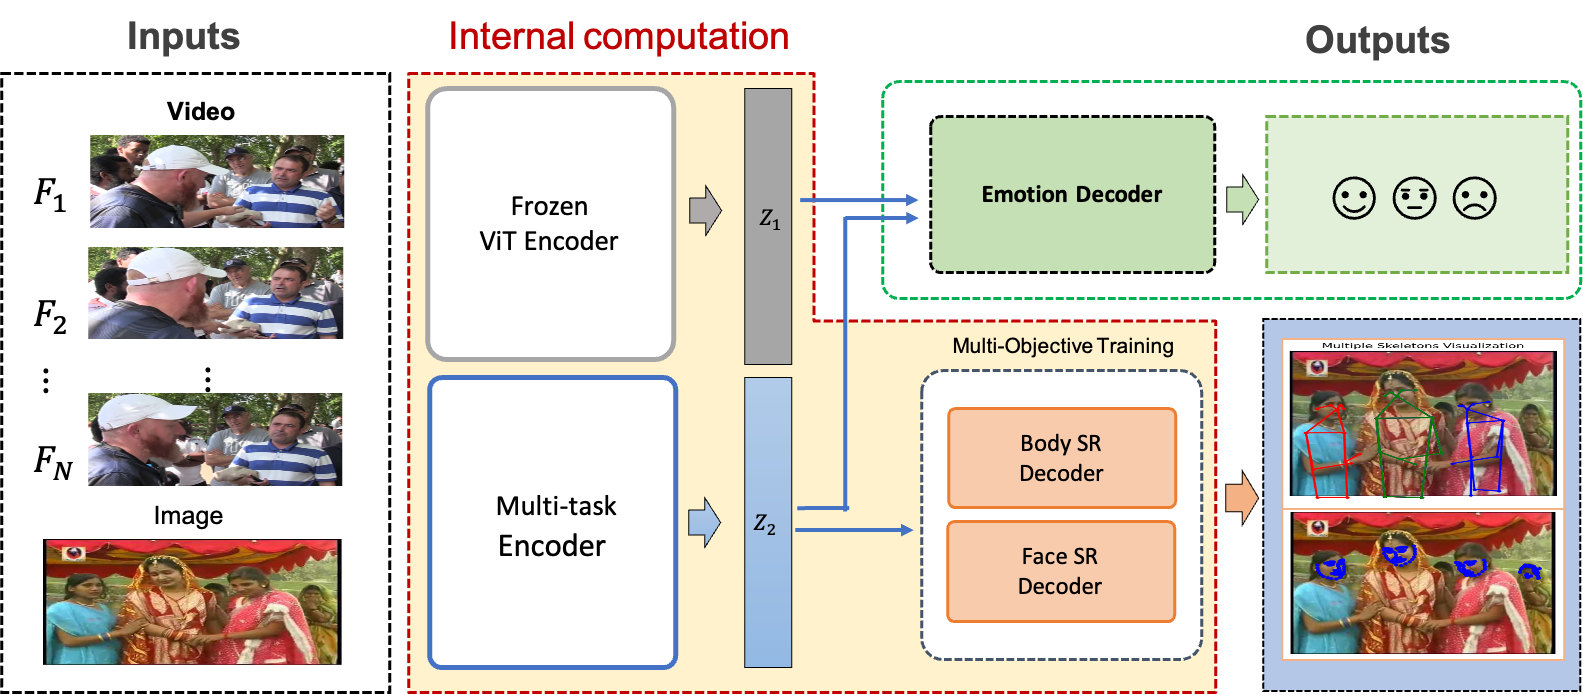
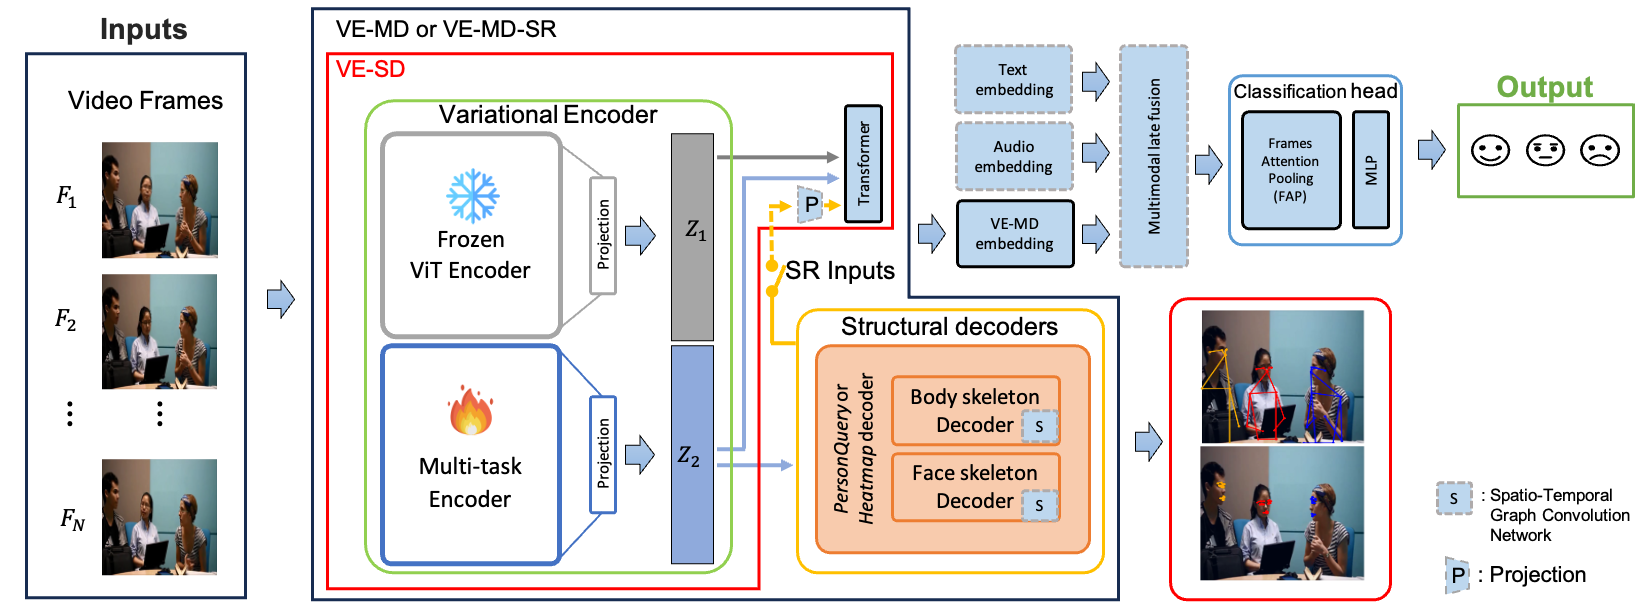
architecture update

diff --git a/README.md b/README.md
@@ -1,8 +1,8 @@
 # VE-MD: Variational Encoder – Multi-Decoder for Emotion Recognition
 
-**VE-MD** jointly learns a shared latent space for **emotion classification** and **structural representations** (body pose, facial landmarks), with two structural decoders: **DETR** (set-based queries) and **Heatmap** (OpenPose-light). A frozen **ViT** branch provides global semantics; a trainable multi-task encoder (**ResNet-50** or **Custom Residual**) refines task-specific features.
+**VE-MD** jointly learns a shared latent space for **emotion classification** and **structural representations (SR)** (body pose, facial landmarks), with two structural decoders: **PersonQuery** (based on DETR approach) and **Heatmap** (based on OpenPose approach). A frozen **ViT** branch provides global semantics; a trainable multi-task encoder (**ResNet-50** or **Custom Residual**) refines task-specific features.
 
-> Paper: _will_be_dded arXiv/DOI when available_  
+> Paper: https://arxiv.org/pdf/2604.02397  
 
 
 
@@ -13,14 +13,14 @@
 </p>
 
 
-### Structural Representation (SR) Decoder (DETR-based) Overview 
+### Structural Representation (SR) PersonQuery Decoder (DETR approach) Overview 
 
 <p align="center">
   <img src="images/detr_decoder.png" alt="VE-MD architecture" width="500">
 
 </p>
 
-### Structural Representation (SR) OpenPose-light Decoder (Heatmap-based) Overview 
+### Structural Representation (SR) Heatmap Decoder (OpenPose approach) Overview 
 
 <p align="center">
   <img src="images/heatmap_decoder.png" alt="VE-MD architecture" width="500">
@@ -148,3 +148,6 @@ python run.py \
 - FaceAlignment
 - DETR
 - OpenPose
+
+## License
+This project is licensed under the MIT License — see the LICENSE file for details.
